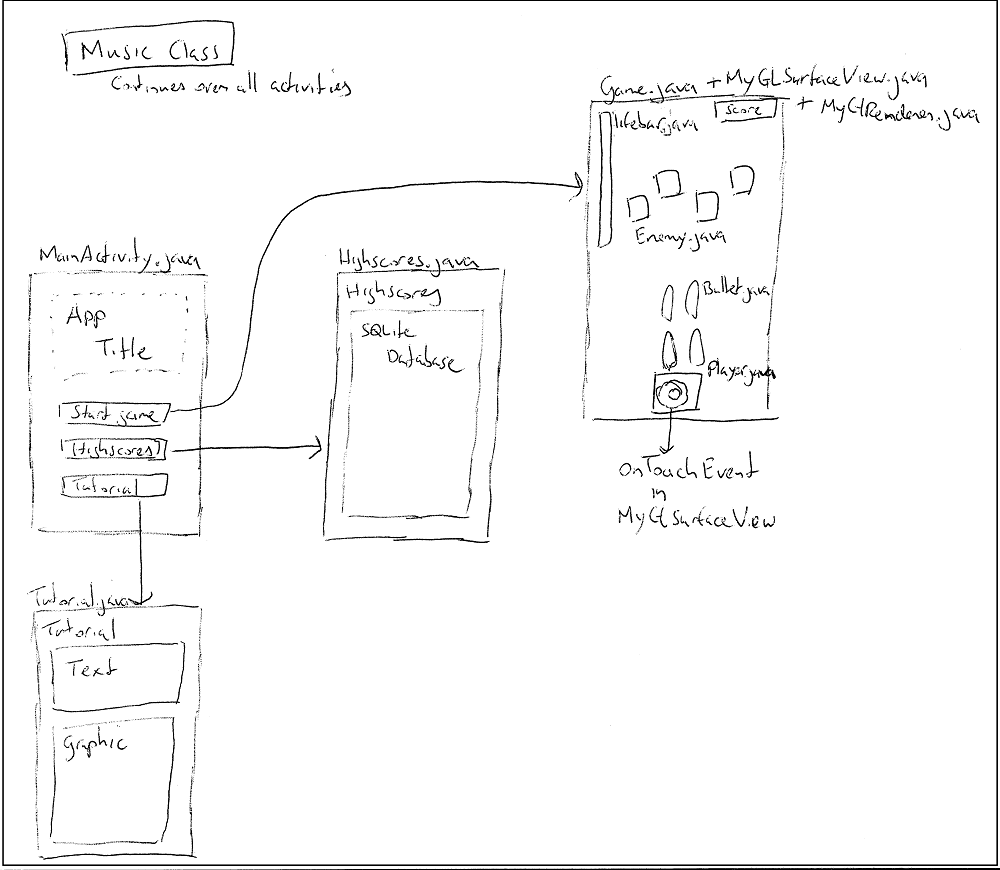
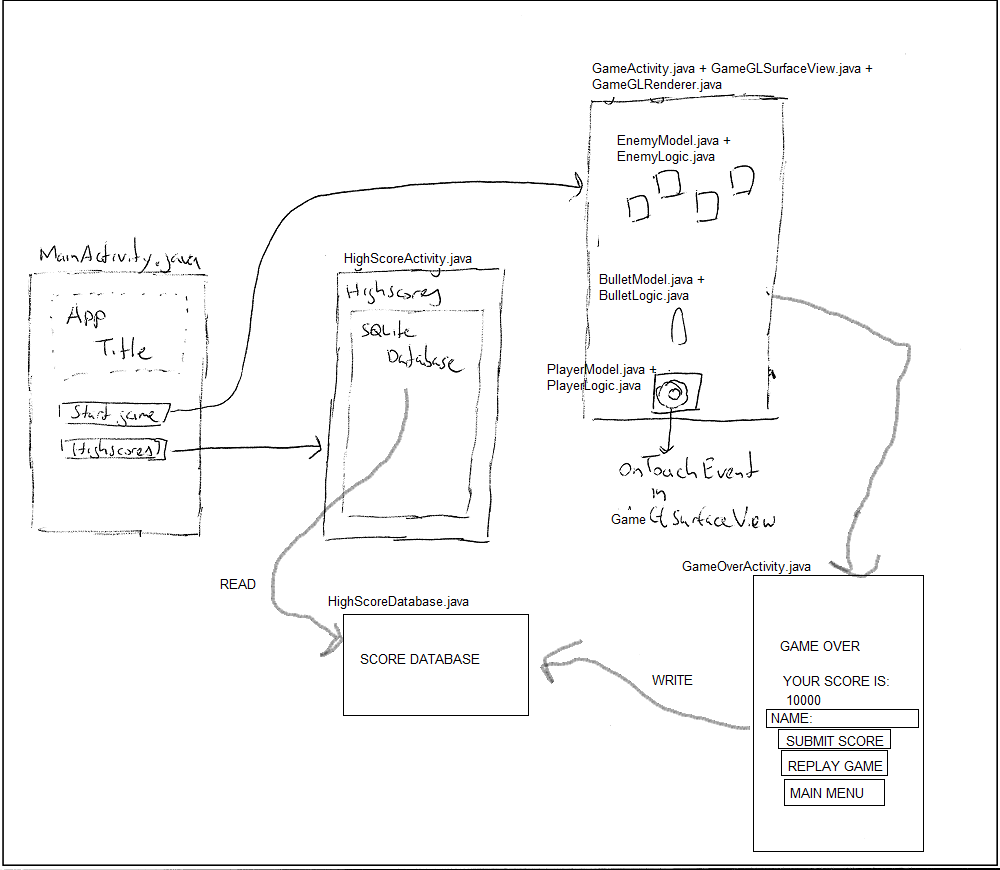
Updated Design Doc

diff --git a/doc/DESIGNDOC.md b/doc/DESIGNDOC.md
@@ -7,15 +7,18 @@ Classes
 -------
 
 * MainActivity
-* HighscoreActivity
-* TutorialActivity
+* HighScoreActivity
+    * HighScoreDatabase
 * GameActivity
-* GLSufaceView Class
-* GLRenderere Class
-* Player Class
-* Life Class
-* Enemy Class
-* Music Class
+    * GameGLSurfaceView
+    * GameGLRenderer
+        * PlayerModel
+        * BulletModel
+        * EnemyModel
+        * PlayerLogic
+        * BulletLogic
+        * EnemyLogic
+* GameOverActivity
 
 Advanced Sketch
 ---------------
@@ -26,7 +29,6 @@ APIs, Frameworks
 
 * Android API level 15 (4.0.3)
 * OpenGL ES 2.0
-* Media Playback
 * Data Storage (SQLite)
 * Touchscreen
 
